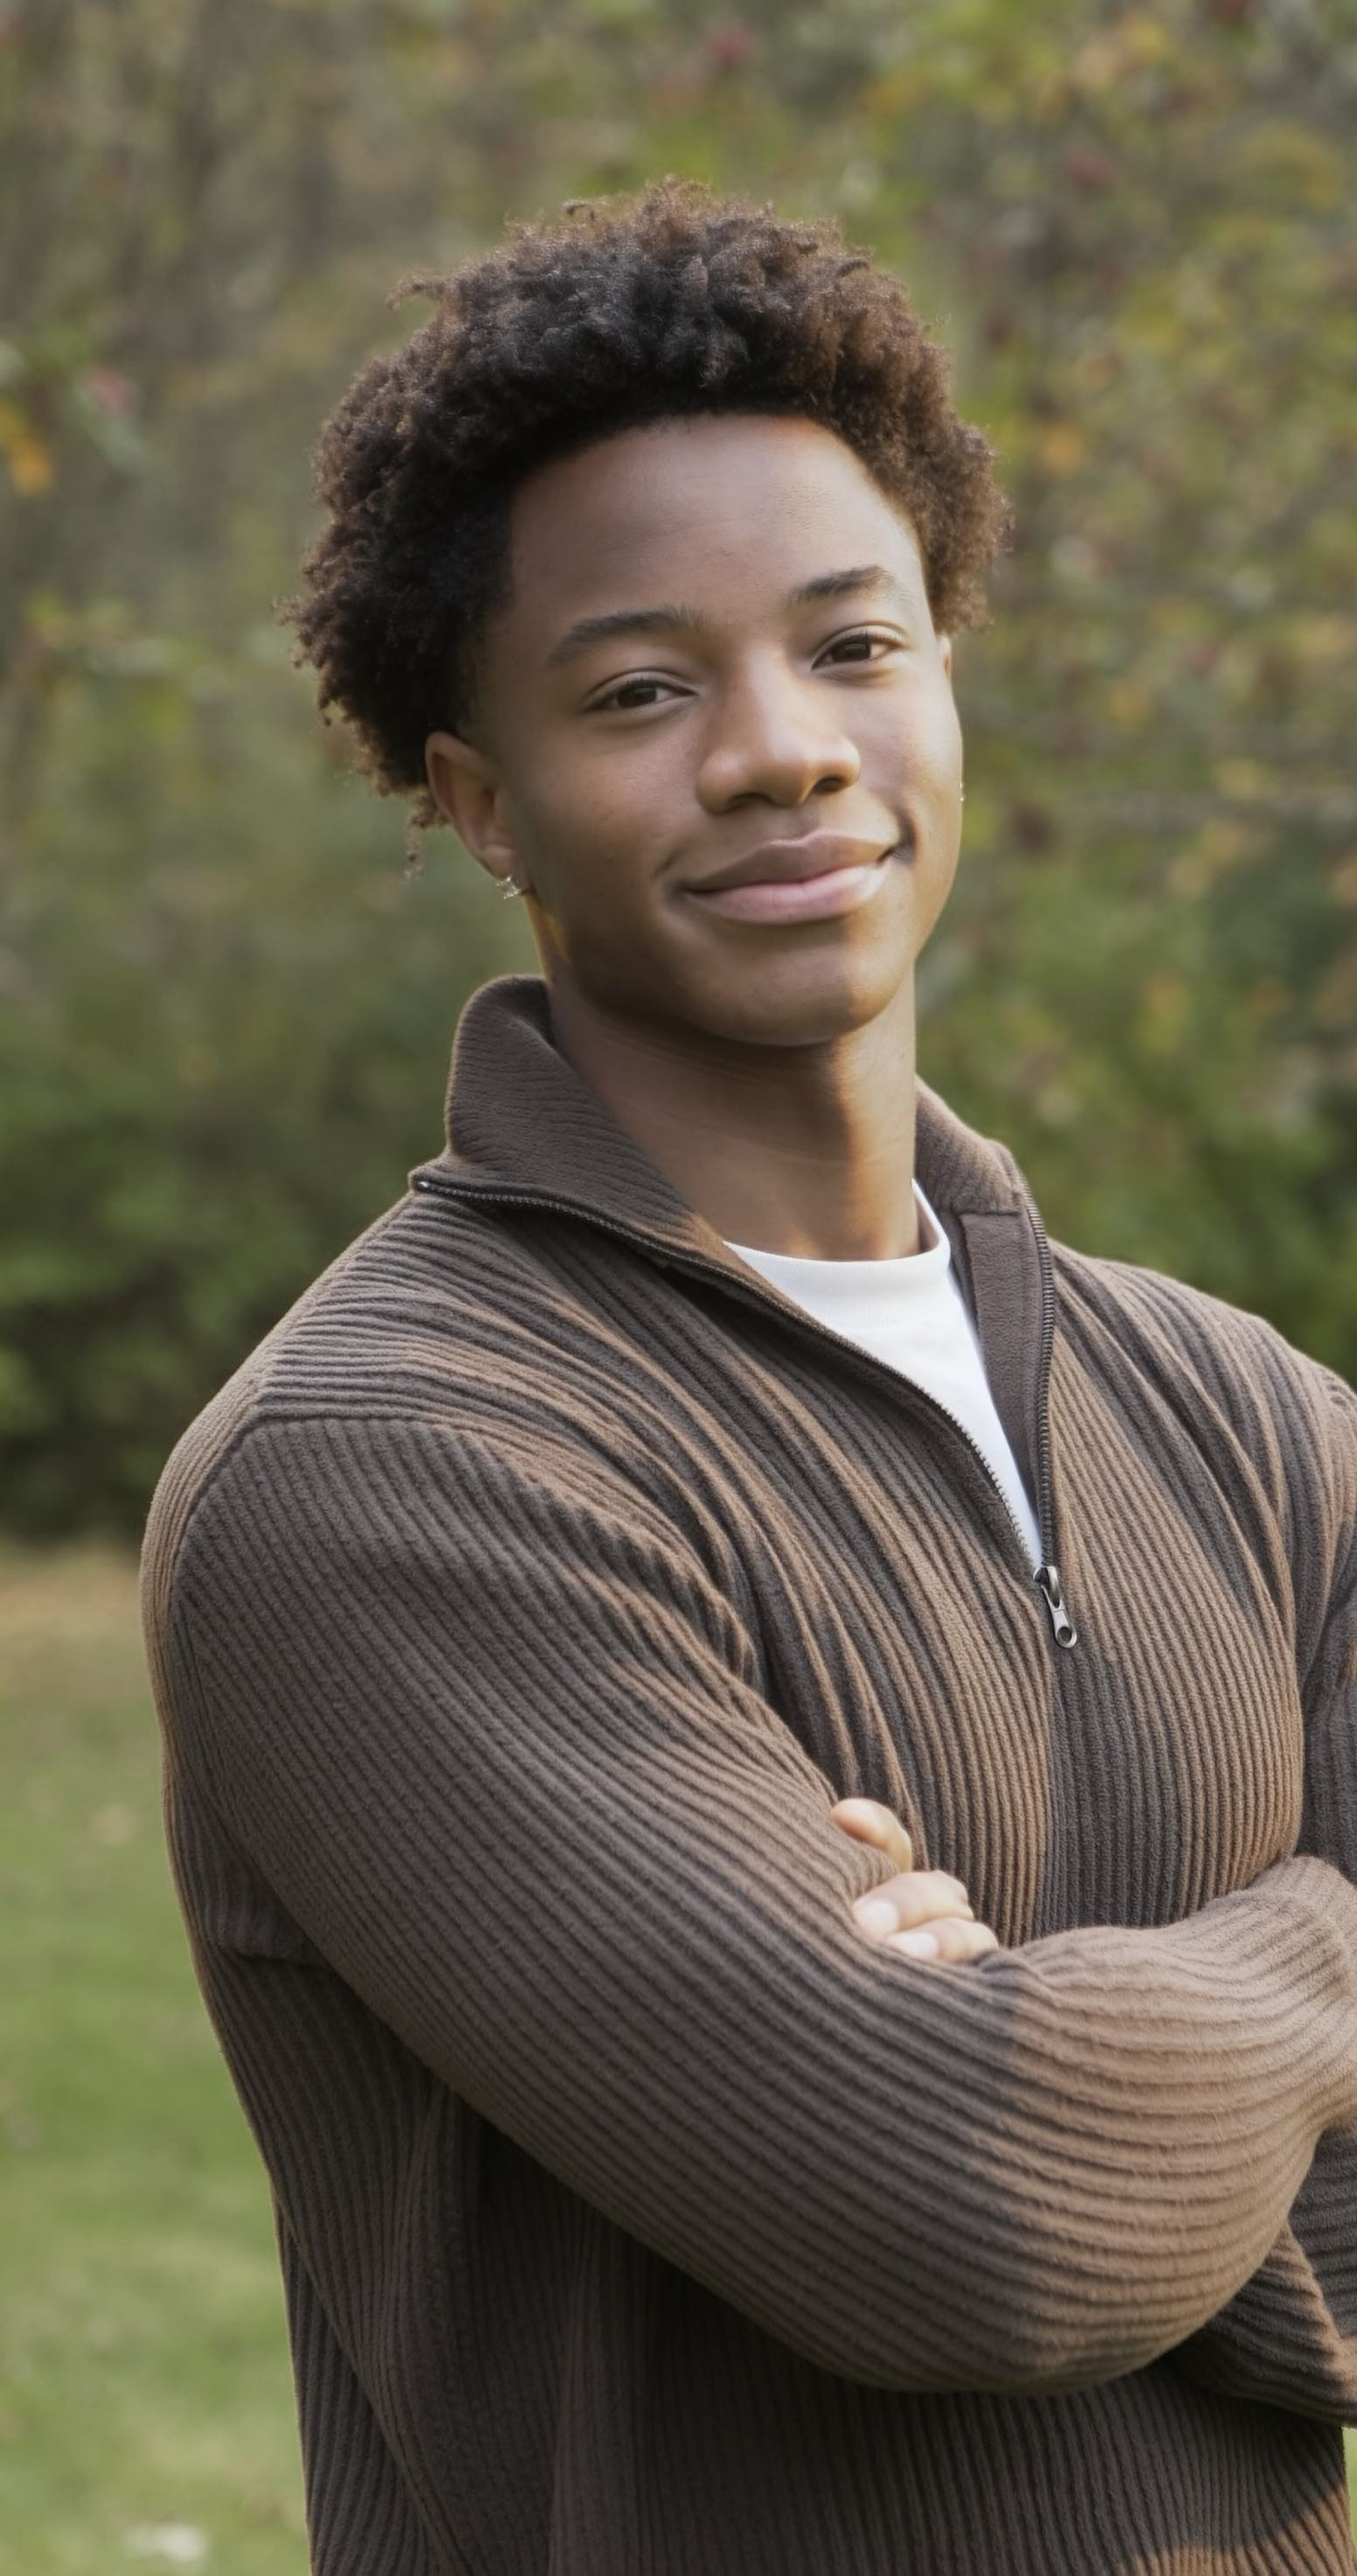
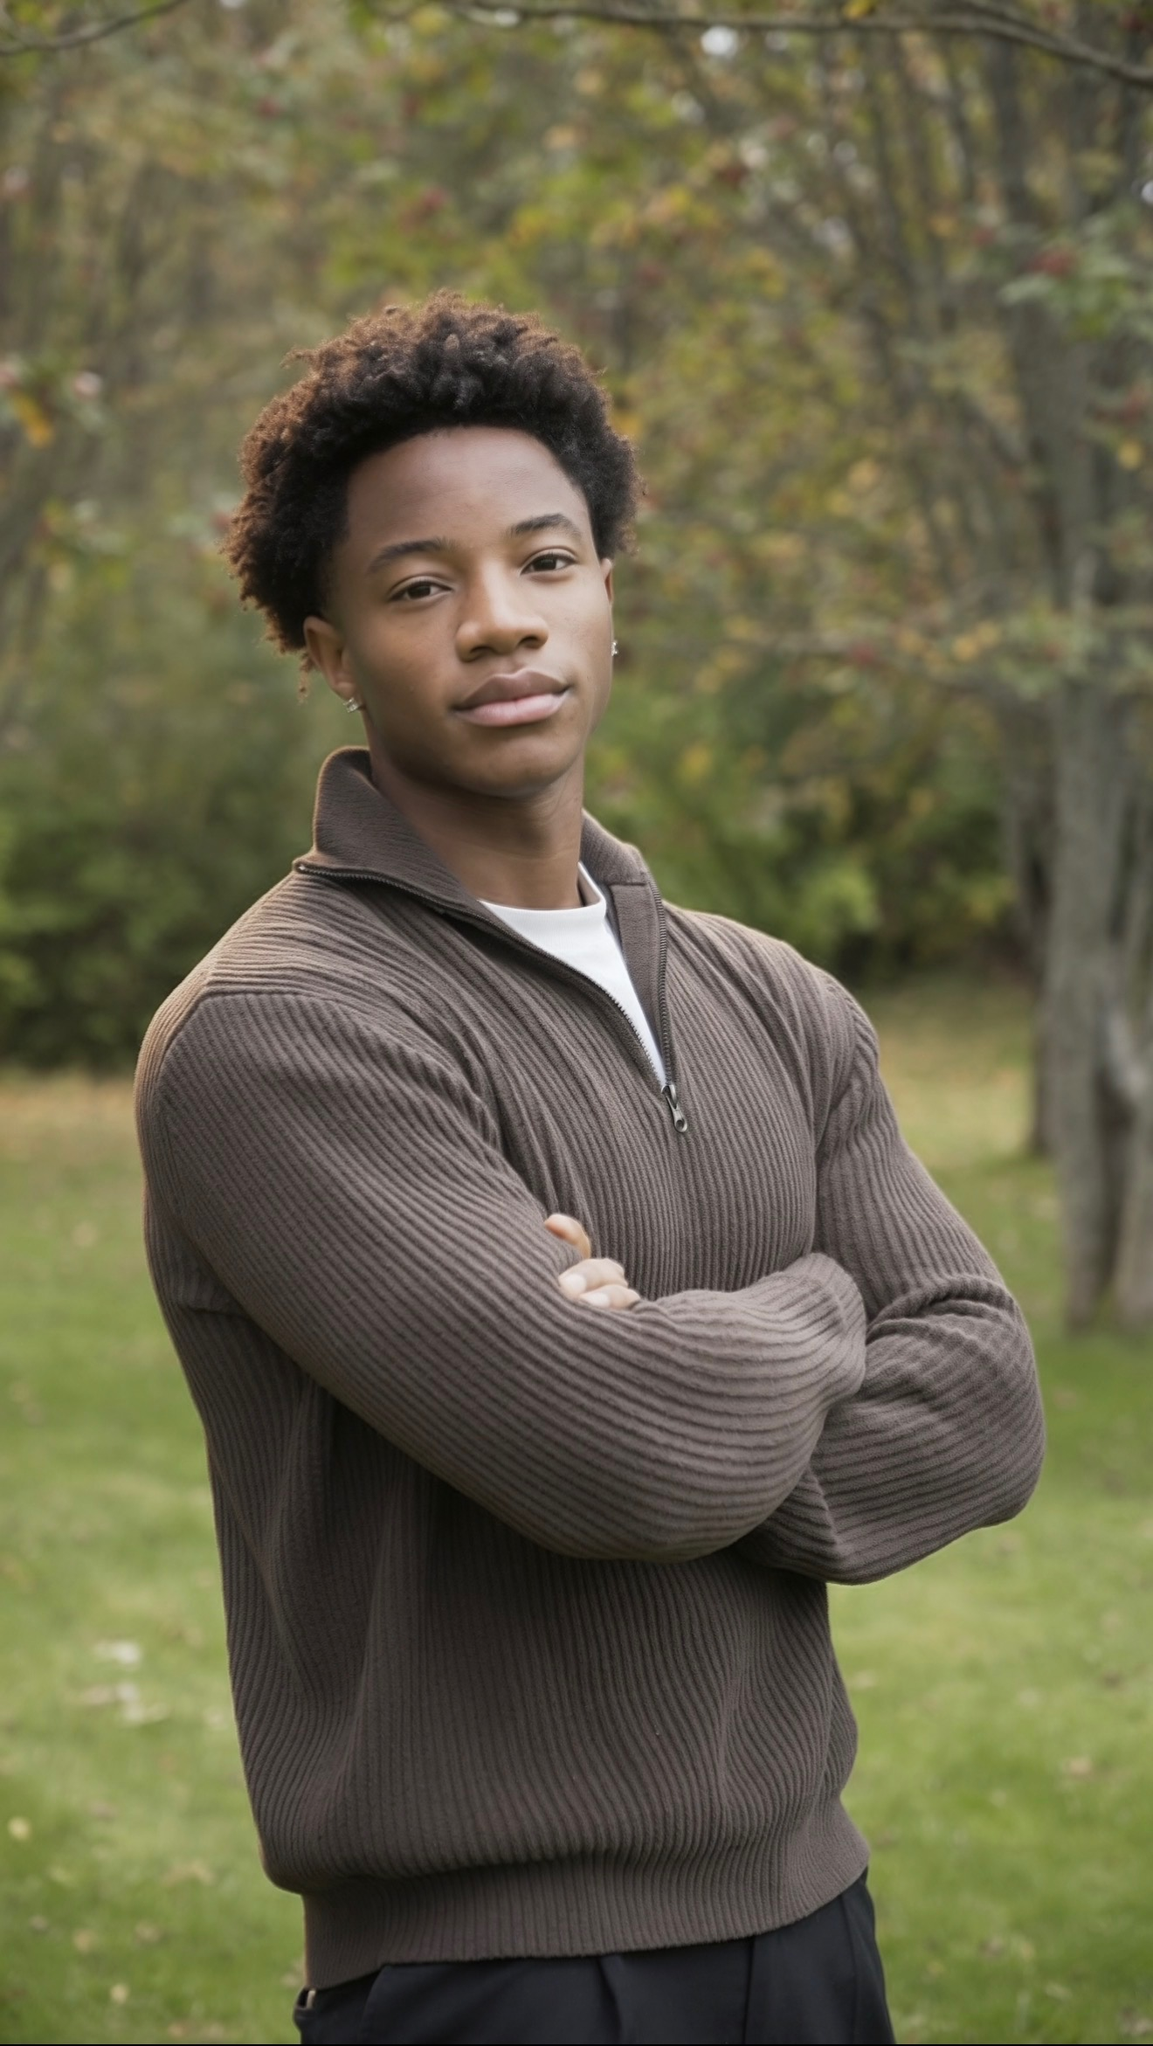
Use full-bleed portrait in hero with new photo

diff --git a/index.html b/index.html
@@ -127,17 +127,27 @@
     /* ---------- Hero ---------- */
     #hero { position: relative; isolation: isolate; min-height: 100vh; min-height: 100svh; padding: 7rem 0 4rem; background: var(--ink); display: flex; align-items: center; }
     #hero::before { content: ""; position: absolute; inset: 0; z-index: -1; background: radial-gradient(ellipse 50% 55% at 80% 35%, rgba(47,107,110,.28), rgba(47,107,110,0) 70%); }
-    .hero-wrap { display: grid; grid-template-columns: 1.2fr .8fr; gap: 3.5rem; align-items: center; }
+    .hero-wrap { position: relative; }
+    .hero-wrap > div { max-width: 31rem; }
+    .hero-portrait { position: absolute; top: 0; right: 0; bottom: 0; width: 56%; z-index: -1; overflow: hidden; }
+    .hero-portrait img { width: 100%; height: 100%; object-fit: cover; object-position: 50% 14%; display: block; }
+    .hero-portrait::after { content: ""; position: absolute; inset: 0; background:
+      linear-gradient(90deg, var(--ink) 0%, rgba(21,25,30,.65) 26%, rgba(21,25,30,0) 58%),
+      linear-gradient(0deg, var(--ink) 0%, rgba(21,25,30,0) 22%),
+      linear-gradient(180deg, rgba(21,25,30,.5) 0%, rgba(21,25,30,0) 22%); }
+    @media (prefers-reduced-motion: no-preference) { .hero-portrait img { animation: portrait-in 1.8s cubic-bezier(.22,1,.36,1) both; } }
+    @keyframes portrait-in { from { transform: scale(1.08); opacity: 0; } to { transform: scale(1); opacity: 1; } }
+    @media (max-width: 820px) {
+      #hero { align-items: flex-end; padding: 6rem 0 3rem; }
+      .hero-portrait { width: 100%; }
+      .hero-portrait img { object-position: 50% 8%; }
+      .hero-portrait::after { background: linear-gradient(0deg, var(--ink) 0%, rgba(21,25,30,.9) 36%, rgba(21,25,30,.15) 68%, rgba(21,25,30,.45) 100%); }
+    }
     .eyebrow { font-family: var(--font-brand); font-weight: 500; font-size: .78rem; letter-spacing: .2em; text-transform: uppercase; color: var(--accent-soft); margin: 0 0 1rem; }
     .hero-title { font-family: var(--font-brand); font-weight: 700; letter-spacing: .05em; color: #fff; font-size: clamp(2.2rem, 6.5vw, 3.8rem); margin: 0 0 1.2rem; }
     .hero-lead { color: rgba(255,255,255,.78); font-size: 1.15rem; max-width: 30rem; margin: 0 0 2.2rem; }
     .hero-cta { display: flex; flex-wrap: wrap; gap: 1rem; }
-    .hero-photo { justify-self: center; perspective: 1000px; width: min(100%, 20rem); position: relative; }
-    .tilt { position: relative; aspect-ratio: 4 / 5; border-radius: 1rem; overflow: hidden; transform: rotateX(var(--rx, 0deg)) rotateY(var(--ry, 0deg)); transition: transform .25s ease-out; box-shadow: 0 24px 50px rgba(0,0,0,.45); border: 2px solid rgba(255,255,255,.85); }
-    .tilt img { width: 100%; height: 100%; object-fit: cover; object-position: 50% 18%; display: block; }
     @media (max-width: 820px) {
-      .hero-wrap { grid-template-columns: 1fr; gap: 2rem; }
-      .hero-photo { order: -1; width: 9.5rem; }
     }
 
     /* ---------- Sections ---------- */
@@ -273,9 +283,9 @@
 
     /* Short landscape screens (phones turned sideways) */
     @media (max-height: 520px) and (orientation: landscape) {
-      #hero { padding: 5.5rem 0 2.5rem; }
-      .hero-photo { width: 8rem; }
-      .hero-wrap { grid-template-columns: 1fr auto; }
+      #hero { padding: 5.5rem 0 2.5rem; align-items: center; }
+      .hero-portrait { width: 50%; }
+      .hero-portrait::after { background: linear-gradient(90deg, var(--ink) 0%, rgba(21,25,30,.65) 26%, rgba(21,25,30,0) 58%), linear-gradient(0deg, var(--ink) 0%, rgba(21,25,30,0) 22%); }
       .cta { min-height: 0; }
     }
 
@@ -299,7 +309,7 @@
       .reveal { opacity: 0; will-change: opacity, transform; }
       .reveal.reveal-visible { animation: reveal-in .8s cubic-bezier(.22,1,.36,1) forwards; }
     }
-    @media (prefers-reduced-motion: reduce) { .ring { animation: none; } .tilt, .btn-no { transition: none; } }
+    @media (prefers-reduced-motion: reduce) { .ring { animation: none; } .btn-no { transition: none; } }
   </style>
 </head>
 <body>
@@ -336,6 +346,7 @@
 
   <main id="main" tabindex="-1" style="outline:none">
     <section id="hero">
+      <div class="hero-portrait" aria-hidden="false"><img src="images/portrait.jpg" alt="Portrait of Madalitso Skjelnes" width="1320" height="2342" fetchpriority="high"></div>
       <div class="container hero-wrap">
         <div>
           <p class="eyebrow" data-reveal>Full-stack developer</p>
@@ -345,9 +356,6 @@
             <a href="#projects" class="btn">See my projects</a>
             <a href="#cta" class="btn btn-ghost">Get in touch</a>
           </div>
-        </div>
-        <div class="hero-photo" data-reveal>
-          <div class="tilt" id="tilt"><img src="images/portrait.jpg" alt="Portrait of Madalitso Skjelnes" width="1054" height="2000" fetchpriority="high"></div>
         </div>
       </div>
     </section>
@@ -635,17 +643,6 @@
         moreBtn.setAttribute("aria-expanded", open ? "true" : "false");
         moreBtn.textContent = window.t(open ? "Show fewer projects" : "Show more projects");
       });
-
-      /* 3D tilt on the portrait */
-      var tilt = document.getElementById("tilt");
-      if (tilt && !reduced && window.matchMedia("(hover: hover)").matches) {
-        tilt.addEventListener("pointermove", function (e) {
-          var r = tilt.getBoundingClientRect(), x = (e.clientX - r.left) / r.width, y = (e.clientY - r.top) / r.height;
-          tilt.style.setProperty("--ry", ((x - .5) * 12) + "deg");
-          tilt.style.setProperty("--rx", ((.5 - y) * 10) + "deg");
-        });
-        tilt.addEventListener("pointerleave", function () { tilt.style.setProperty("--rx", "0deg"); tilt.style.setProperty("--ry", "0deg"); });
-      }
 
       /* "No thanks" button that runs away from the pointer */
       (function () {
